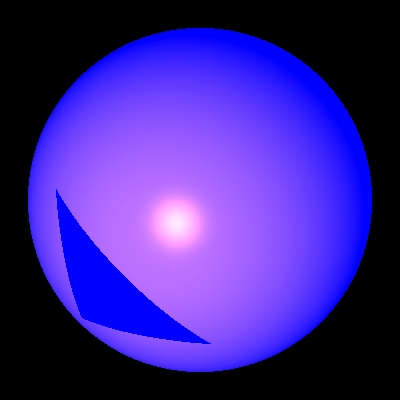
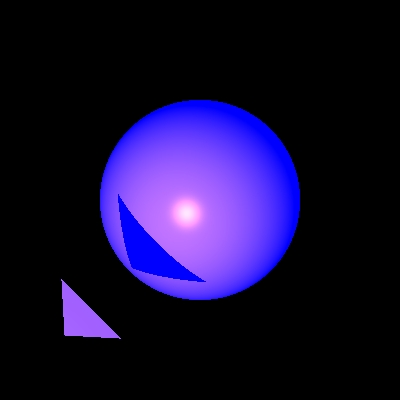
22:40 21/05/2020

diff --git a/src/unittests/ReflectionRefractionTests.java b/src/unittests/ReflectionRefractionTests.java
@@ -12,6 +12,8 @@ import primitives.*;
 import renderer.*;
 import scene.Scene;
 
+import javax.swing.*;
+
 /**
  * Tests for reflection and transparency functionality, test for partial shadows
  * (with transparency)
@@ -105,4 +107,69 @@ public class ReflectionRefractionTests {
         render.renderImage();
         render.writeToImage();
     }
+    /**
+     * Produce a picture of a sphere lighted by a spot light
+     */
+    @Test
+    public void twoSpheresOnMirrors2() {
+        Scene scene = new Scene("Test scene");
+        scene.setCamera(new Camera(new Point3D(0, 0, -10000), new Vector(0, 0, 1), new Vector(0, -1, 0)));
+        scene.setDistance(10000);
+        scene.setBackground(Color.BLACK);
+        scene.setAmbientLight(new AmbientLight(new Color(255, 255, 255), 0.1));
+
+        scene.addGeometries(
+                new Sphere(new Color(0, 0, 100), new Material(0.25, 0.25, 20, 0.2, 0), 400, new Point3D(-950, 900, 1000)),
+                new Sphere(new Color(255, 0, 0), new Material(0.25, 0.25, 20, 0.5, 0), 300, new Point3D(-950, 900, 1000)),
+                new Sphere(new Color(255, 20, 20), new Material(0.25, 0.25, 20, 0.8, 0), 200, new Point3D(-950, 900, 1000)),
+                new Sphere(new Color(102, 255, 51), new Material(0.25, 0.25, 20, 0.5, 0), 100, new Point3D(-950, 900, 1000)),
+                new Sphere(new Color(0, 255, 0), new Material(0.25, 0.25, 20, 0.1, 0), 50, new Point3D(-950, 900, 1000)),
+                new Triangle(new Color(20, 20, 20), new Material(0, 0, 0, 0, 1), new Point3D(1500, 1500, 1500),
+                        new Point3D(-1500, -1500, 1500), new Point3D(670, -670, -3000)),
+                new Triangle(new Color(20, 20, 20), new Material(0, 0, 0, 0, 0.5), new Point3D(1500, 1500, 1500),
+                        new Point3D(-1500, -1500, 1500), new Point3D(-1500, 1500, 2000)));
+
+        scene.addLights(new SpotLight(new Color(1020, 400, 400),  new Point3D(-750, 750, 150),
+                new Vector(-1, 1, 4), 1, 0.00001, 0.000005));
+
+        ImageWriter imageWriter = new ImageWriter("twoSpheresMirrored2", 2500, 2500, 500, 500);
+        Render render = new Render(imageWriter, scene);
+
+        render.renderImage();
+        render.writeToImage();
+    }
+    /**
+     * Produce a picture of a two triangles lighted by a spot light with a partially transparent Sphere
+     *  producing partial shadow
+     */
+    @Test
+    public void trianglesTransparentSphere2() {
+        Scene scene = new Scene("Test scene");
+        scene.setCamera(new Camera(new Point3D(0, 0, -1000), new Vector(0, 0, 1), new Vector(0, -1, 0)));
+        scene.setDistance(1000);
+        scene.setBackground(Color.BLACK);
+        scene.setAmbientLight(new AmbientLight(new Color(java.awt.Color.WHITE), 0.15));
+
+        scene.addGeometries( //
+                new Triangle(Color.BLACK, new Material(0.5, 0.5, 60), //
+                        new Point3D(-150, 150, 115), new Point3D(150, 150, 135), new Point3D(75, -75, 150)), //
+                new Triangle(Color.BLACK, new Material(0.5, 0.5, 60), //
+                        new Point3D(-150, 150, 115), new Point3D(-70, -70, 140), new Point3D(75, -75, 150)), //
+                new Sphere(new Color(java.awt.Color.BLUE), new Material(0.2, 0.2, 30, 0.6, 0), // )
+                        30, new Point3D(60, -50, 50)),
+                 new Sphere(new Color(java.awt.Color.BLUE), new Material(0.2, 0.2, 30, 0.6, 0), // )
+                     30, new Point3D(-60, 50, 50)));
+        scene.addLights(new SpotLight(new Color(700, 400, 400), //
+                new Point3D(60, -50, 0), new Vector(0, 0, 1), 1, 4E-5, 2E-7));
+        scene.addLights(new SpotLight(new Color(700, 400, 400), //
+                                new Point3D(-60, 50, 0), new Vector(0, 0, 1), 1, 4E-5, 2E-7));
+
+        ImageWriter imageWriter = new ImageWriter("shadow with transparency2", 200, 200, 600, 600);
+        Render render = new Render(imageWriter, scene);
+
+        render.renderImage();
+        render.writeToImage();
+    }
+
+
 }

diff --git a/src/renderer/Render.java b/src/renderer/Render.java
@@ -13,7 +13,9 @@ import primitives.Ray;
 import primitives.Vector;
 import scene.Scene;
 
+import java.util.ArrayList;
 import java.util.List;
+import java.util.Map;
 
 import static geometries.Intersectable.GeoPoint;
 import static primitives.Util.alignZero;
@@ -23,9 +25,11 @@ import static primitives.Util.isZero;
  *
  */
 public class Render {
+    private Scene scene;
+    private ImageWriter imageWriter;
     private static final int MAX_CALC_COLOR_LEVEL = 10;
     private static final double MIN_CALC_COLOR_K = 0.001;
-
+    private static  final int MAX_RAYS = 6;
     private final ImageWriter _imageWriter;
     private final Scene _scene;
 
@@ -88,8 +92,14 @@ public class Render {
         } else {    //supersampling
             for (int row = 0; row < Ny; row++) {
                 for (int collumn = 0; collumn < Nx; collumn++) {
-                    List<Ray> rays = camera.constructRayBeamThroughPixel(Nx, Ny, collumn, row, distance, width, height, _supersamplingRate);
+                //    List<Ray> rays = camera.constructRayBeamThroughPixel(Nx, Ny, collumn, row, distance, width, height, _supersamplingRate);
                     Color averageColor = Color.BLACK;
+                    //makes a list of the multiple rays that goes through different parts of the pixel
+                    List<Ray> rays = getRaysThroughPixel(row, collumn);
+
+                    //will store the colors in that pixel in a list later
+                  //  List<Color> raysColors = new ArrayList<>();
+
                     Color Bckg = new Color(background);
                     for (Ray ray : rays) {
                         GeoPoint closestPoint = findClosestIntersection(ray);
@@ -403,4 +413,30 @@ public class Render {
         }
         return true;
     }
+    //this function improves ray tracing by making multiple rays through different parts of the pixel
+    private List<Ray> getRaysThroughPixel(int x, int y){
+
+        //the ratio of the screen dimensions to the number of pixels
+        double Rx = imageWriter.getWidth() /imageWriter.getNx();
+        double Ry = imageWriter.getHeight() / imageWriter.getNy();
+
+        //store the rays in a list
+        List<Ray> raysThroughPixel = new ArrayList<>();
+
+        //i will go from -1/2 * the max to 1/2 max
+        for (int i = (-1 * MAX_RAYS) / 2; i <= MAX_RAYS / 2; i++) {
+            for (int j = (-1 * MAX_RAYS) / 2; j <= MAX_RAYS / 2; j++) {
+
+                //calculating the coordinate of the offset rays
+                double iOffSet = (i * Rx) / MAX_RAYS;
+                double jOffSet = (j * Ry) / MAX_RAYS;
+                //making a ray to that position and placing it in the list
+                Ray ray = scene.getCamera().constructRayThroughPixel(imageWriter.getNx(), imageWriter.getNy(), x + iOffSet, y + jOffSet, scene.getDistance(), imageWriter.getWidth(), imageWriter.getHeight());
+                raysThroughPixel.add(ray);
+            }
+        }
+
+        return raysThroughPixel;
+    }
+
 }

diff --git a/src/elements/Camera.java b/src/elements/Camera.java
@@ -76,6 +76,35 @@ public class Camera {
         return new Ray(_p0, Vij);
 
     }
+    public Ray constructRayThroughPixel(int nX, int nY,
+                                        double j, double i, double screenDistance,
+                                        double screenWidth, double screenHeight) {
+        if (isZero(screenDistance)) {
+            throw new IllegalArgumentException("distance cannot be 0");
+        }
+
+        Point3D Pc = _p0.add(_vTo.scale(screenDistance));
+
+        double Ry = screenHeight / nY;
+        double Rx = screenWidth / nX;
+
+        double yi = ((i - nY / 2d) * Ry + Ry / 2d);
+        double xj = ((j - nX / 2d) * Rx + Rx / 2d);
+
+        Point3D Pij = Pc;
+
+        if (!isZero(xj)) {
+            Pij = Pij.add(_vRight.scale(xj));
+        }
+        if (!isZero(yi)) {
+            Pij = Pij.subtract(_vUp.scale(yi)); // Pij.add(_vUp.scale(-yi))
+        }
+
+        Vector Vij = Pij.subtract(_p0);
+
+        return new Ray(_p0, Vij);
+
+    }
     public List<Ray> constructRayBeamThroughPixel(int nX, int nY,
                                                   int j, int i, double screenDistance,
                                                   double screenWidth, double screenHeight, double supersamplingRate) {
